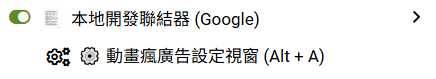
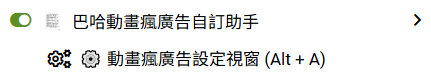
docs & chore: update Greasy Fork links, userscript metadata, and UI assets
- Script metadata (ani-gamer-ad-customizer.user.js): update namespace to repository URL; add @icon, @homepageURL, @supportURL, and @license tags
- Documentation (README.md): add Greasy Fork badge and installation link, refine FAQ layout and add feedback links
- Assets (images/menu_shortcut.png): update shortcut menu screenshot

Changed region(s): [[0.0905, 0.5823, 0.7541, 0.8861], [0.0, 0.1266, 0.6032, 0.3797], [0.935, 0.1266, 0.9954, 0.3291]]

diff --git a/ani-gamer-ad-customizer.user.js b/ani-gamer-ad-customizer.user.js
@@ -1,6 +1,6 @@
 // ==UserScript==
 // @name         巴哈動畫瘋廣告自訂助手
-// @namespace    https://ani.gamer.com.tw/
+// @namespace    https://github.com/pthuang01/ani-gamer-ad-customizer
 // @version      1.8
 // @description  限制為巴哈自帶廣告 (跳過Google Ads)，25秒結束廣告、手動/自動結束廣告、正常/靜音播放廣告，及一個隱藏的實驗性功能
 // @author       DoReMi
@@ -10,6 +10,10 @@
 // @grant        GM_getValue
 // @grant        GM_registerMenuCommand
 // @grant        unsafeWindow
+// @icon         https://ani.gamer.com.tw/favicon.ico
+// @homepageURL  https://github.com/pthuang01/ani-gamer-ad-customizer
+// @supportURL   https://github.com/pthuang01/ani-gamer-ad-customizer/issues
+// @license      MIT
 // ==/UserScript==
 
 (function () {

diff --git a/README.md b/README.md
@@ -4,12 +4,12 @@
 
 [![License: MIT](https://img.shields.io/badge/License-MIT-blue.svg)](#-免責聲明-disclaimer)
 [![Version](https://img.shields.io/badge/Version-1.8-green.svg)](https://github.com/pthuang01/ani-gamer-ad-customizer)
-[![Greasy Fork](https://img.shields.io/badge/Greasy%20Fork-安裝-960000)]()
+[![Greasy Fork](https://img.shields.io/badge/Greasy%20Fork-安裝-960000)](https://update.greasyfork.org/scripts/595865/%E5%B7%B4%E5%93%88%E5%A7%86%E7%89%B9%E5%8B%95%E7%95%AB%E7%98%8B%E5%BB%A3%E5%91%8A%E8%87%AA%E8%A8%82%E5%8A%A9%E6%89%8B.user.js)
 [![Platform](https://img.shields.io/badge/Platform-Tampermonkey%20%7C%20Violentmonkey-orange.svg)](#-安裝教學)
 
-限制為巴哈自帶廣告並跳過 Google Ads，25 秒準時結束直接切入正片！<br />
-支援**正常 / 靜音播放**、**手動 / 自動結束廣告**與專屬設定視窗，享受最純粹乾淨的觀影體驗<br />
-同時內建一項進階的**獨家隱藏功能**供自由探索
+限制為動畫瘋自帶廣告（不顯示 Google 廣告），25 秒準時結束直接切入正片！<br />
+支援<b>正常 / 靜音播放</b>、<b>手動 / 自動結束廣告</b>與專屬設定視窗，享受最純粹乾淨的觀影體驗<br />
+同時內建一項進階的<b>獨家隱藏功能</b>供使用者自行探索
 
 [你需要嗎](#-為什麼需要這個助手) · [主要特色](#-主要特色) · [安裝教學](#-安裝教學) · [操作設定](#-操作與設定說明) · [常見問題](#-常見問題-faq) · [免責聲明](#-免責聲明-disclaimer)
 
@@ -19,25 +19,26 @@
 
 ## ✨ 為什麼需要這個助手？
 
-在巴哈姆特動畫瘋觀看動漫時，你是否經常遇到：
+在動畫瘋觀看動畫時，你是否經常遇到：
 - 廣告音量忽大忽小，每次開播都被突然的大音量嚇到？
 - 遇到長度不可預期的 Google Ads，甚至在倒數結束後又卡住重新載入？
 - 倒數結束了還要自己動手點擊跳過，稍微分心就多看了好幾秒？
 
-**「巴哈動畫瘋廣告自訂助手」** 專為解決這些日常觀影痛點而生！在符合官方播放規範的前提下，為你提供最高自由度的觀影自訂選項
+**「巴哈姆特動畫瘋廣告自訂助手」** 專為解決這些日常觀影痛點而生！  
+在符合官方播放規範的前提下，為你提供最高自由度的觀影自訂選項
 
 ---
 
 ## 🌟 主要特色
 
 - 🎯 **純粹原生廣告體驗**  
-  限制僅播放巴哈官方自帶的原生廣告，避免 Google Ads 與第三方廣告干擾，告別卡載、重複播放與異常黑畫面
+  限制僅播放動畫瘋官方自帶的原生廣告，避免 Google Ads 與第三方廣告干擾
 
 - ⚡ **25 秒精準極速跳過**  
   符合官方系統驗證標準（滿 25 秒安全門檻），時間一到立即自動載入正片，為你節省寶貴的追番時間
 
 - 🔇 **貼心智慧靜音模式**  
-  廣告期間自動切換靜音，並具備智慧音量保護機制——**進入正片瞬間自動恢復正常聲音**，完全不用擔心正片被誤靜音
+  可選擇廣告期間自動切換靜音，並具備**進入正片瞬間自動恢復正常聲音**功能，完全不用擔心被廣告音量嚇到或正片也跟著被靜音等問題
 
 - 🤖 **全自動 / 手動自由切換**  
   倒數完畢可選擇由腳本「自動點擊跳過」，或維持「手動點擊」，把觀賞決定權留給自己
@@ -59,13 +60,11 @@
 
 ### 步驟 2：安裝助手腳本
 點擊下方連結直接進行一鍵安裝：
+- 👉 **[從 Greasy Fork 安裝](https://greasyfork.org/zh-TW/scripts/595865-%E5%B7%B4%E5%93%88%E5%A7%86%E7%89%B9%E5%8B%95%E7%95%AB%E7%98%8B%E5%BB%A3%E5%91%8A%E8%87%AA%E8%A8%82%E5%8A%A9%E6%89%8B)**
 - 👉 **[從 GitHub Raw 安裝](https://raw.githubusercontent.com/pthuang01/ani-gamer-ad-customizer/main/ani-gamer-ad-customizer.user.js)**
-- 👉 **[從 GreasyFork 安裝（建置中）]()**
-
-*(亦可手動在擴充套件中建立新腳本，並複製 `ani-gamer-ad-customizer.user.js` 的內容貼上儲存)*
 
 ### 步驟 3：開始追番！
-開啟任何 [巴哈姆特動畫瘋影片頁面](https://ani.gamer.com.tw/)，助手便會在後台自動生效運作
+開啟任何 [巴哈姆特動畫瘋播放頁面](https://ani.gamer.com.tw/)，助手便會在後台自動生效運作
 
 ---
 
@@ -102,20 +101,14 @@
 
 ## ❓ 常見問題 (FAQ)
 
-<details>
-<summary><b>Q1：為什麼是 25 秒就可以跳過？</b></summary>
-官方系統的廣告觀看驗證門檻為 25 秒。本助手在精準滿足 25 秒官方門檻後立即為您銜接正片，既能確保正常完成計次，又不用多花時間空等
-</details>
-
-<details>
-<summary><b>Q2：使用靜音模式，會導致正片也沒有聲音嗎？</b></summary>
-不會。腳本內建音訊狀態監聽保護機制，廣告結束切入正片的瞬間，會強制解除靜音狀態，確保正片音效正常輸出
-</details>
-
-<details>
-<summary><b>Q3：需要每次重新整理都重新設定嗎？</b></summary>
-不需要。你的設定會自動保存在瀏覽器本地，下次打開動畫瘋依然會維持你喜好的設定
-</details>
+1. **為什麼 25 秒就可以跳過？**
+   * 官方系統的廣告觀看驗證門檻為 25 秒。本助手在精準滿足 25 秒官方門檻後立即為您銜接正片，既能確保正常完成計次，又不用多花時間空等
+2. **使用靜音模式，會導致正片也沒有聲音嗎？**
+   * 不會。腳本內建音訊狀態監聽保護機制，廣告結束切入正片的瞬間，會強制解除靜音狀態，確保正片音效正常輸出
+3. **需要每次重新整理都重新設定嗎？**
+   * 不需要。你的設定會自動保存在瀏覽器本地，下次打開動畫瘋依然會維持你喜好的設定
+4. **遇到問題或有功能建議，該如何回報？**
+   * 請前往  [GitHub Issues](https://github.com/pthuang01/ani-gamer-ad-customizer/issues) 或 [GreasyFork 反饋區](https://greasyfork.org/zh-TW/scripts/595865-%E5%B7%B4%E5%93%88%E5%A7%86%E7%89%B9%E5%8B%95%E7%95%AB%E7%98%8B%E5%BB%A3%E5%91%8A%E8%87%AA%E8%A8%82%E5%8A%A9%E6%89%8B/feedback) 提出回報與建議，感謝~
 
 ---
 
